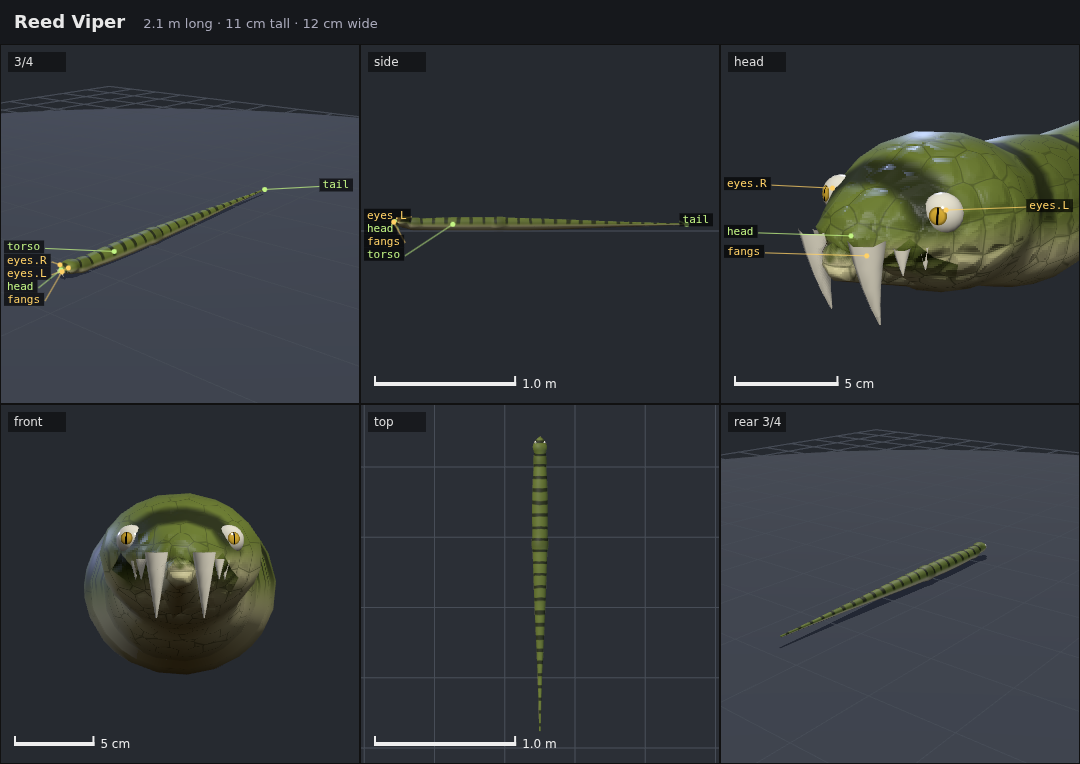
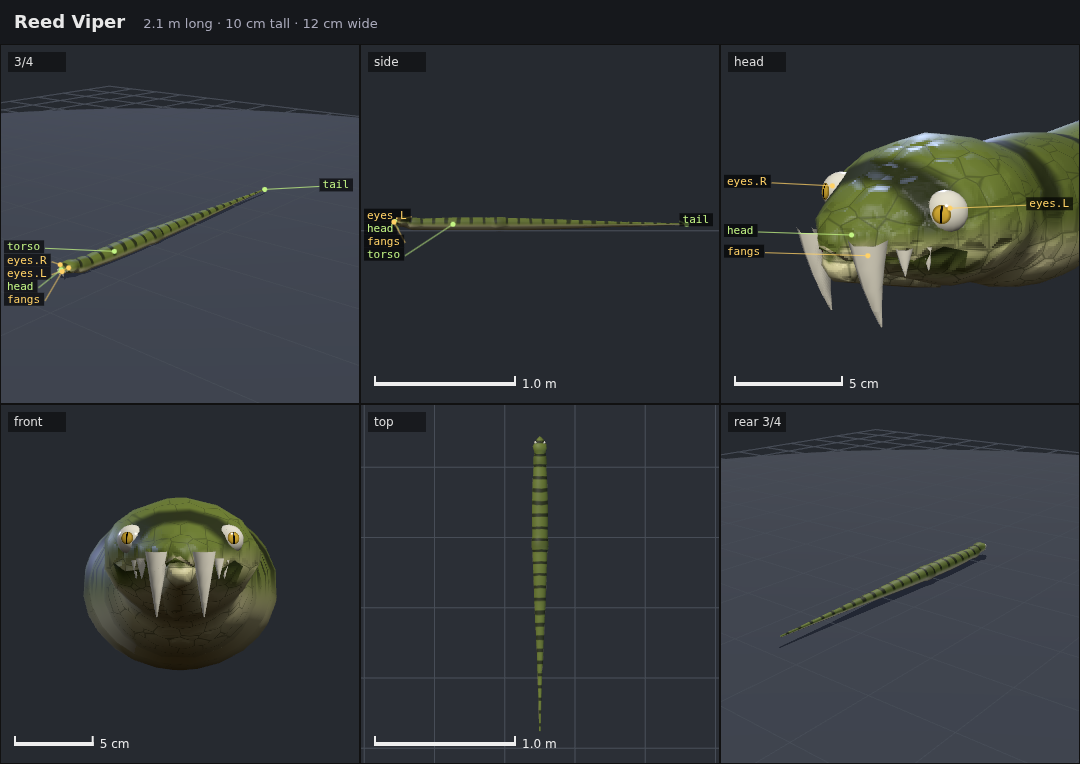
Re-record goldens and renders for 8.1 round 2; archive round 1 review
Round 2 reshapes every example again (no keel or waist on the upright
troll, smoother chitin, the viper's throat, the root sphere back to its
plan 1 size). Round 1's blind review (9 new, 9 old, 2 same) moves to
quality-round1/ with its answers and score; the design doc records the
rules round 2 changed.

Claude-Session: https://claude.ai/code/session_01Eo29K6ffmHsDdhkuoADdm8

diff --git a/docs/design/8.1-anatomy.md b/docs/design/8.1-anatomy.md
@@ -47,7 +47,7 @@ Segment `k` of `n`; `face` is the limb's front face. These are the built values 
 | Mass | Where (along the bone, t) | Offset from the axis | Outer reach (`p`); near end radius |
 | --- | --- | --- | --- |
 | Front belly of the thigh (quadriceps), k = 0 | capsule 0.35 → 0.78 | +0.22 s r toward the face | 0.38 |
-| Back belly of the thigh (hamstring), k = 0 | capsule 0.25 → 0.8 | −0.32 s r | 0.52 |
+| Back belly of the thigh (hamstring), k = 0 | capsule 0.35 → 0.82 | −0.24 s r | 0.42 |
 | Biceps, k = 0 of arms | capsule 0.3 → 0.7 | +0.2 s r | 0.32 |
 | Triceps, k = 0 of arms | capsule 0.15 → 0.6 | −0.26 s r | 0.38 |
 | Calf, k = 1 of hind legs and biped legs | capsule 0.14 → 0.5 | −0.32 s r | 0.52 |
@@ -60,6 +60,9 @@ Segment `k` of `n`; `face` is the limb's front face. These are the built values 
   max(0.5 r, r (1 + p s) − |q| s r), so its outer side reaches r (1 + p s); its far end tapers to
   0.55 of that on the first segment and 0.6 below. Cross-section 0.9 : 1 (narrower across, so no
   belly grows toward the other leg). Blend 0.45 r × min(1, s).
+- **Stocky segments** get fewer bellies: their `s` is multiplied by 1 − smoothstep(0.3, 0.55,
+  r / ℓ), so a leg as thick as half its length (a rhino's, a toad-like lizard's) stays a column
+  instead of turning into balloons. Joints still narrow on them.
 - Offsets are along the face, so no mass grows toward the other leg (bipeds' thighs already
   touch; the medial side stays as it is).
 - **Joints**: the limb's continuous profile `T` (0 at the root, 1 at the tip) gets a multiplier
@@ -69,10 +72,10 @@ Segment `k` of `n`; `face` is the limb's front face. These are the built values 
   radius profile of its own gets one point at its middle.
 - **Chitin** limbs instead swell each segment: × (1 + 0.22 s × sin(π t) − 0.1 s × (1 − sin(π
   t))) within the segment (narrow at the joints, fat in the middle; the last segment's tip kept),
-  with no bellies or caps. The swept tubes of thin bones follow the profile, so thin chitin legs
-  show it too.
-- The root sphere grows to 1.12 + 0.22 s times the root radius and blends with 0.45 r_root ×
-  min(1, s): shoulders and haunches.
+  on four profile spans per segment so the arch is smooth, with no bellies or caps. The swept
+  tubes of thin bones follow the profile, so thin chitin legs show it too.
+- The root sphere keeps plan 1's 1.12 × the root radius and blends with 0.4 r_root × min(1, s),
+  so the shoulder or hip melds into the body. Growing it made balls of short legs.
 - 2-segment limbs: k = 0 and k = 1 rules apply; the only joint is the "last" one, so no caps.
 
 ### Torso (by the profile, plus one keel)
@@ -89,6 +92,8 @@ of the hindmost leg pair.
   hind, 0.12)).
 - **Waist** between them when they are at least 0.35 apart: × (1 − 0.09 s × bump(t, midpoint,
   0.12)).
+- **Upright torsos** (pitch 45° or more: standing bipeds) get no waist and no keel, which read on
+  them as a pinch above a sagging belly; their chest and hips come from the profile.
 - Legs-only single pairs (a raptor without arms, the wyvern until 9.3) get a pelvis only.
   Sprawlers whose pairs cluster (hexapods and octopods, pairs within 0.3) get none of these; non
   chitin ones still get their limbs' rules.
@@ -101,8 +106,10 @@ of the hindmost leg pair.
   × min(1, s): the muscle running into the shoulders.
 - **Tail** (legged bodies): × (1 + 0.22 s × (1 − smoothstep(0, 0.3, t))) from the root, never
   wider than the torso's end.
-- **Legless bodies** (serpents): the torso and tail sit on a slightly flattened belly: their
-  cross-section × (1 + 0.04 s) across and (1 − 0.06 s) up. Nothing else.
+- **Legless bodies** (serpents): the torso and tail sit on a flattened belly, their
+  cross-section × (1 + 0.06 s) across and (1 − 0.1 s) up, and the neck narrows into a throat
+  behind the head, × (1 − 0.2 min(1, s) × (1 − smoothstep(0, 0.45, at))) from the head end, so
+  the head reads apart from the body instead of as the end of a tube.
 
 ### S-curved neck
 
@@ -122,8 +129,15 @@ segments show only a C. Reach follows the new bones, as it does for any neck.
   creases, and crease depth is normalised by the largest junction blend.
 - **Culling**: each primitive's bound radius grows by the largest mass blend of its chain, so
   blocks keep everything a mass's blend can reach; the global margin stays the junction blend.
-- **Thin bones**: masses on a bone dropped as thin, or with a radius under the thin threshold,
-  are dropped too.
+- **Thin bones**: whether a bone is too thin for the grid is decided from the blueprint's radii
+  and cross-section, before anatomy shapes them, so muscle never moves a bone between the field
+  and the swept tubes. Masses on a bone dropped as thin, or with a radius under the thin
+  threshold, are dropped too.
+- **The grid**: its cell and lattice come from the same creature without muscle, grown by whole
+  cells to hold the masses. Masses widen the field's bounds, and a grid fitted to them resamples
+  everything: mouths came out jagged and thin tail tips parted where nothing had changed. Now what
+  anatomy leaves alone is meshed exactly as before (a test checks the ridgeback's and the
+  beetle's heads).
 - **Unchanged**: skin weights, `bones.radii`, hit capsules, sockets that read radii, mass (from
   volume). A stretch test checks the skinning over a walk and a turn.
 

diff --git a/docs/blueprint.md b/docs/blueprint.md
@@ -105,11 +105,12 @@ separately. _(Built in milestone 9.1.)_
 **Neck shape, muscle and head details.** `neck.curve` (degrees) bends the neck into an S: forward
 at the base and back up below the head, like a swan or a rearing cobra (a C on necks of fewer than
 3 segments). `body.muscle` (0 to 1, default 0.5) sets how muscled the body is, and
-`limbs[].muscle` overrides it per limb: thighs, upper arms and calves get muscle bellies, knees
-and elbows caps, joints and ankles narrow, the torso gets a chest, hips and a waist from the limbs
-on it, the neck a muscle into the shoulders and a tail a thick base. Chitin limbs swell between
-their joints instead, and legless bodies only flatten their belly a little. `0` gives smooth
-tubes, `1` a heavily built body. `head.lips` (0–1),
+`limbs[].muscle` overrides it per limb: thighs, upper arms and calves get muscle bellies (less
+on stocky legs, which stay columns), knees and elbows caps, joints and ankles narrow, the torso
+gets a chest, hips and (unless it stands upright) a waist from the limbs on it, the neck a muscle
+into the shoulders and a tail a thick base. Chitin limbs swell between their joints instead, and
+legless bodies get a flatter belly and a throat behind the head. `0` gives smooth tubes, `1` a
+heavily built body. `head.lips` (0–1),
 `head.tongue` (`none`, `flat` or `forked`) and `head.brow` (0–1) shape the mouth and the brow
 (_8.3_).
 
